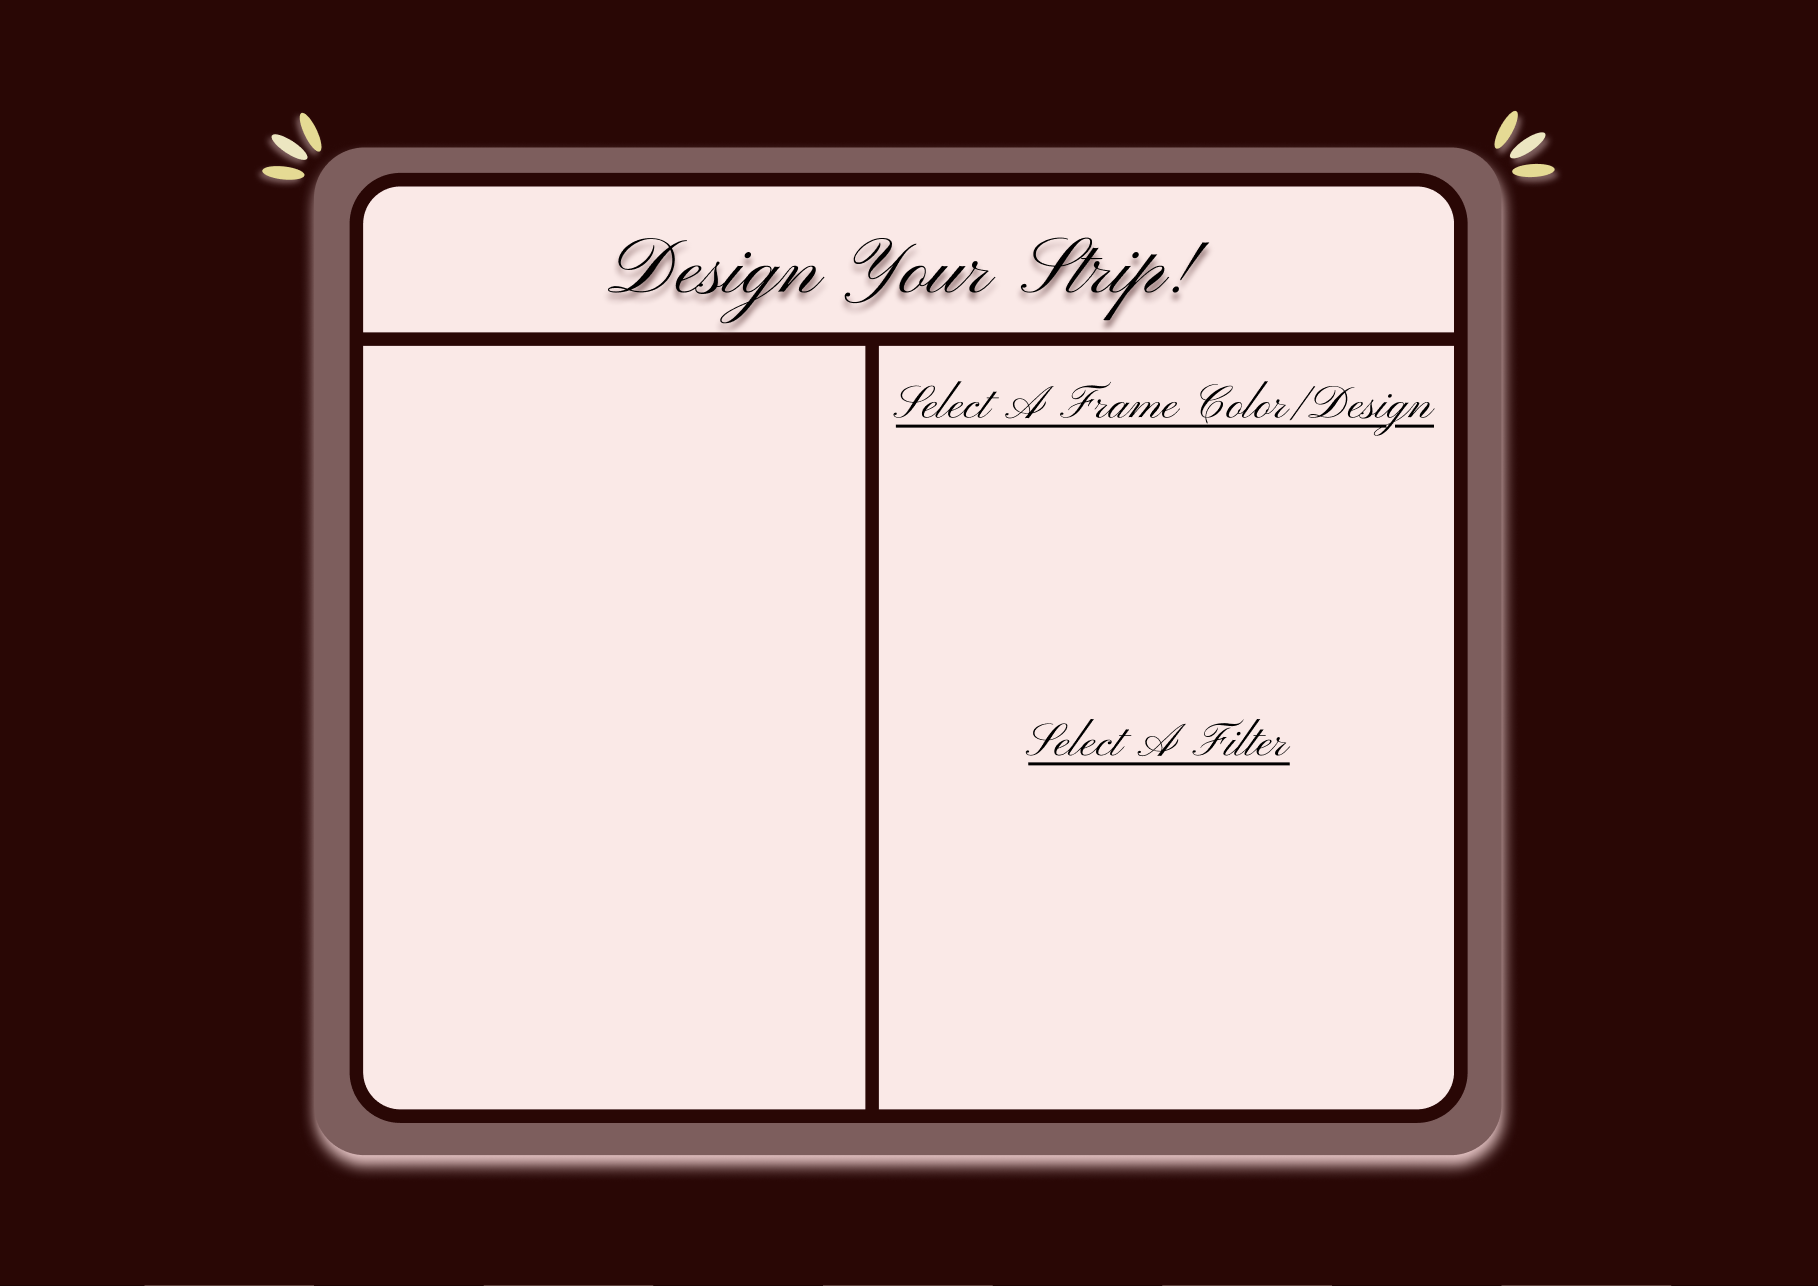
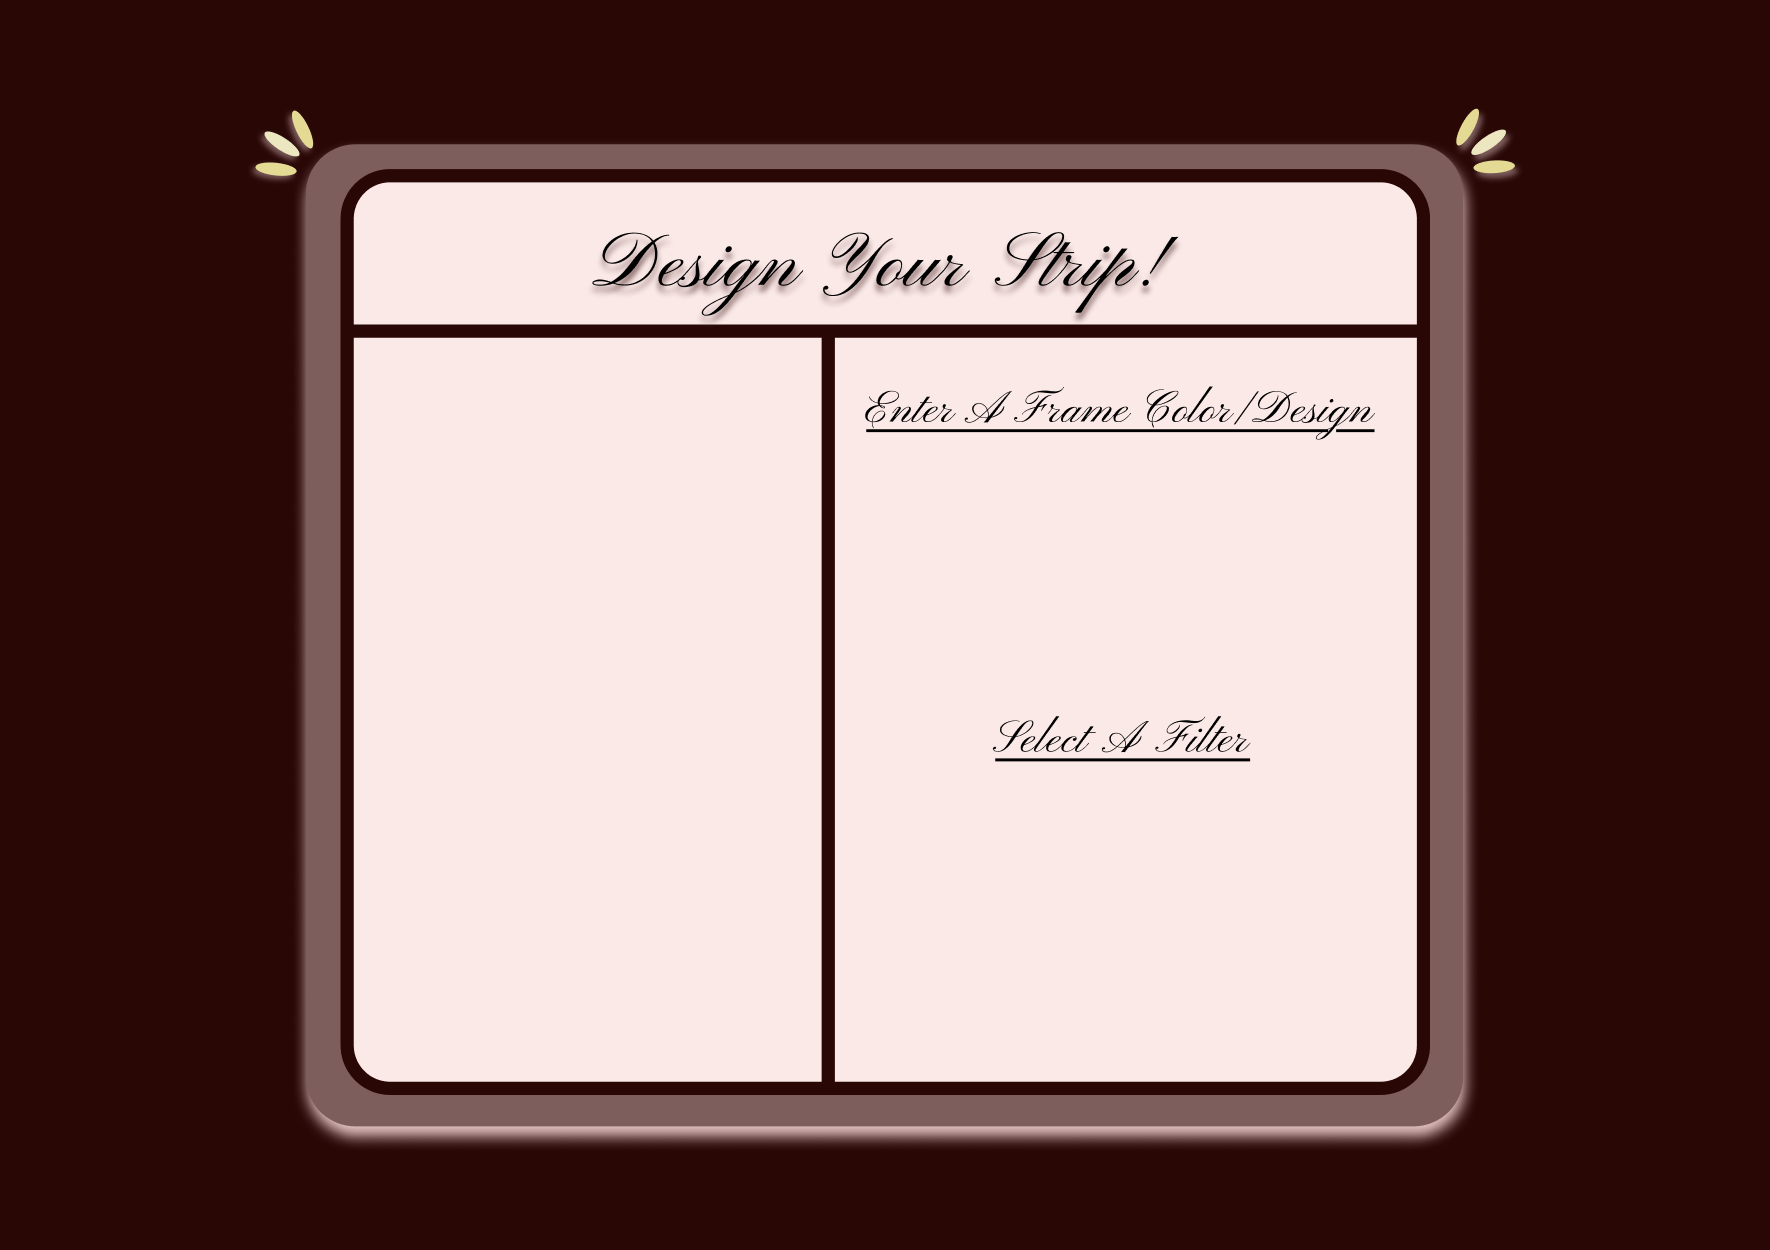
changed the way the AI input looked for both h&v pages

diff --git a/static/stripdesign(h).css b/static/stripdesign(h).css
@@ -32,18 +32,6 @@ body {
   height: 750px;   /* same as container */
 }
 
-/* FRAME COLOR BUTTONS — pixel-perfect inside image */
-.frame-circle-button-wrapper {
-    position: absolute;
-    top: 555px;     /* adjust to match your horizontal layout */
-    left: 350px;
-    transform: translate(-50%, -50%);
-    display: flex;
-    flex-wrap: wrap;
-    gap: 20px;
-    width: 250px;
-    justify-content: center;
-}
 
 /* FILTER BUTTONS */
 .filter-circle-button-wrapper {
@@ -80,55 +68,56 @@ body {
 /* AI PATTERN INPUT */
 .ai-pattern-wrapper {
     position: absolute;
-    top: 680px;
-    left: 50%;
+    top: 515px;
+    left: 345px;
     transform: translateX(-50%);
-    display: flex;
-    gap: 10px;
     align-items: center;
+    display: flex;
+    flex-wrap: wrap;
+    gap: 10px;
     z-index: 100;
-    background: rgba(255,255,255,0.9);
-    padding: 15px;
     border-radius: 10px;
+    background: #632424;
+    padding: 10px;
+    border-radius: 10px;
+    width: 200px; 
 }
 
+
 .ai-pattern-wrapper input[type="text"] {
-    padding: 8px;
-    width: 200px;
+    padding: 12px;
+    width: 125px;
     border-radius: 5px;
-    border: 1px solid #ccc;
+    border: 1px solid #be9d9d;
+    background: #FEE9E7;
+    font-family: 'Kapakana', sans-serif;
+    color:#632424;
+    font-size: medium;
 }
 
 .ai-pattern-wrapper input[type="color"] {
-    width: 40px;
-    height: 40px;
+    width: 30px;
+    height: 30px;
     border: none;
     cursor: pointer;
+    background: #be9d9d;
 }
 
 .ai-pattern-wrapper button {
-    padding: 8px 15px;
+    padding: 5px 15px;
     border-radius: 5px;
     border: none;
-    background: #667eea;
+    background: #be9d9d;
     color: white;
     cursor: pointer;
+    font-family: 'Kapakana', sans-serif;
+    font-size: large;
 }
 
 .ai-pattern-wrapper button:hover {
-    background: #764ba2;
+    background: #792d2d;
 }
 
-/* COLORS / IMAGES */
-.circle-btn.white { background-color: #FFFEEF; }
-.circle-btn.black { background-color: #000000; }
-.circle-btn.pink { background-color: #FDC8C8; }
-.circle-btn.blue { background-color: #CBE3EB; }
-.circle-btn.green { background-color: #ACC0AC; }
-
-.circle-btn.white-polka { background-image: url("/static/assets/frame-buttons/white-polka.jpeg"); }
-.circle-btn.black-polka { background-image: url("/static/assets/frame-buttons/black-polka.png"); }
-.circle-btn.red-polka { background-image: url("/static/assets/frame-buttons/red-polka.jpeg"); }
 
 .circle-btn.none { background-image: url("/static/assets/filter-buttons/filter-none.png"); }
 .circle-btn.bnw { background-image: url("/static/assets/filter-buttons/filter-bnw.png"); }

diff --git a/static/stripdesign(v).css b/static/stripdesign(v).css
@@ -57,18 +57,6 @@ body {
   height: auto;
 }
 
-/* FRAME COLOR BUTTONS */
-.frame-circle-button-wrapper {
-  position: absolute;
-  top: 325px;
-  left: 605px;
-  transform: translate(-50%, -50%);
-  display: flex;
-  flex-wrap: wrap;
-  gap: 20px;
-  width: 250px;
-  justify-content: center;
-}
 
 /* FILTER BUTTONS */
 .filter-circle-button-wrapper {
@@ -104,55 +92,57 @@ body {
 /* AI PATTERN INPUT */
 .ai-pattern-wrapper {
     position: absolute;
-    top: 680px;
-    left: 50%;
+    top: 290px;
+    left: 606px;
     transform: translateX(-50%);
-    display: flex;
-    gap: 10px;
     align-items: center;
+    display: flex;
+    flex-wrap: wrap;
+    gap: 10px;
     z-index: 100;
-    background: rgba(255,255,255,0.9);
-    padding: 15px;
     border-radius: 10px;
+    background: #632424;
+    padding: 10px;
+    border-radius: 10px;
+    width: 200px; 
 }
 
+
 .ai-pattern-wrapper input[type="text"] {
-    padding: 8px;
-    width: 200px;
+    padding: 12px;
+    width: 125px;
     border-radius: 5px;
-    border: 1px solid #ccc;
+    border: 1px solid #be9d9d;
+    background: #FEE9E7;
+    font-family: 'Kapakana', sans-serif;
+    color:#632424;
+    font-size: medium;
 }
 
 .ai-pattern-wrapper input[type="color"] {
-    width: 40px;
-    height: 40px;
+    width: 30px;
+    height: 30px;
     border: none;
     cursor: pointer;
+    background: #be9d9d;
 }
 
 .ai-pattern-wrapper button {
-    padding: 8px 15px;
+    padding: 5px 15px;
     border-radius: 5px;
     border: none;
-    background: #667eea;
+    background: #be9d9d;
     color: white;
     cursor: pointer;
+    font-family: 'Kapakana', sans-serif;
+    font-size: large;
 }
 
 .ai-pattern-wrapper button:hover {
-    background: #764ba2;
+    background: #792d2d;
 }
 
-/* COLORS / IMAGES */
-.circle-btn.white { background-color: #FFFEEF; }
-.circle-btn.black { background-color: #000000; }
-.circle-btn.pink { background-color: #FDC8C8; }
-.circle-btn.blue { background-color: #CBE3EB; }
-.circle-btn.green { background-color: #ACC0AC; }
 
-.circle-btn.white-polka { background-image: url("/static/assets/frame-buttons/white-polka.jpeg"); }
-.circle-btn.black-polka { background-image: url("/static/assets/frame-buttons/black-polka.png"); }
-.circle-btn.red-polka { background-image: url("/static/assets/frame-buttons/red-polka.jpeg"); }
 
 .circle-btn.none { background-image: url("/static/assets/filter-buttons/filter-none.png"); }
 .circle-btn.bnw { background-image: url("/static/assets/filter-buttons/filter-bnw.png"); }

diff --git a/templates/stripdesign(v).html b/templates/stripdesign(v).html
@@ -15,24 +15,11 @@
     <!-- Canvas on top of image -->
     <canvas id="stripCanvas" class="frame-image"></canvas>
 
-    <!-- FRAME COLOR BUTTONS (now inside photo-container) -->
-    <div class="frame-circle-button-wrapper">
-      <button class="circle-btn white"       onclick="selectFrame('white')"></button>
-      <button class="circle-btn black"       onclick="selectFrame('black')"></button>
-      <button class="circle-btn pink"        onclick="selectFrame('pink')"></button>
-      <button class="circle-btn blue"        onclick="selectFrame('blue')"></button>
-      <button class="circle-btn green"       onclick="selectFrame('green')"></button>
-      <button class="circle-btn white-polka" onclick="selectFrame('white-polka')"></button>
-      <button class="circle-btn black-polka" onclick="selectFrame('black-polka')"></button>
-      <button class="circle-btn red-polka"   onclick="selectFrame('red-polka')"></button>
-    </div>
-
     <!-- AI CUSTOM PATTERN INPUT -->
     <div class="ai-pattern-wrapper">
       <input type="text" id="aiPatternInput" placeholder="Describe pattern (e.g., polka dots, stars)">
       <input type="color" id="aiPatternColor" value="#ffffff">
       <button onclick="generateAIPattern()">Generate</button>
-      <button onclick="testEndpoint()">Test</button>
     </div>
 
     <!-- FILTER BUTTONS -->

diff --git a/templates/stripdesign(h).html b/templates/stripdesign(h).html
@@ -13,7 +13,7 @@
              alt="Strip design photo">
              <canvas id="stripCanvas" class="frame-image"></canvas>
 
-    <div class="frame-circle-button-wrapper">
+    <!-- <div class="frame-circle-button-wrapper">
         <button class="circle-btn white" onclick="selectFrame('white')"> </button>
         <button class="circle-btn black" onclick="selectFrame('black')"> </button>
         <button class="circle-btn pink" onclick="selectFrame('pink')"> </button>
@@ -22,14 +22,13 @@
         <button class="circle-btn white-polka" onclick="selectFrame('white-polka')"> </button>
         <button class="circle-btn black-polka" onclick="selectFrame('black-polka')"> </button>
         <button class="circle-btn red-polka" onclick="selectFrame('red-polka')"> </button>
-    </div>
+    </div> -->
 
     <!-- AI CUSTOM PATTERN INPUT -->
     <div class="ai-pattern-wrapper">
       <input type="text" id="aiPatternInput" placeholder="Describe pattern (e.g., polka dots, stars)">
-      <input type="color" id="aiPatternColor" value="#ffffff">
+      <input type="color" id="aiPatternColor" value="#ffffff" >
       <button onclick="generateAIPattern()">Generate</button>
-      <button onclick="testEndpoint()">Test</button>
     </div>
 
         <!-- FILTER BUTTONS -->
